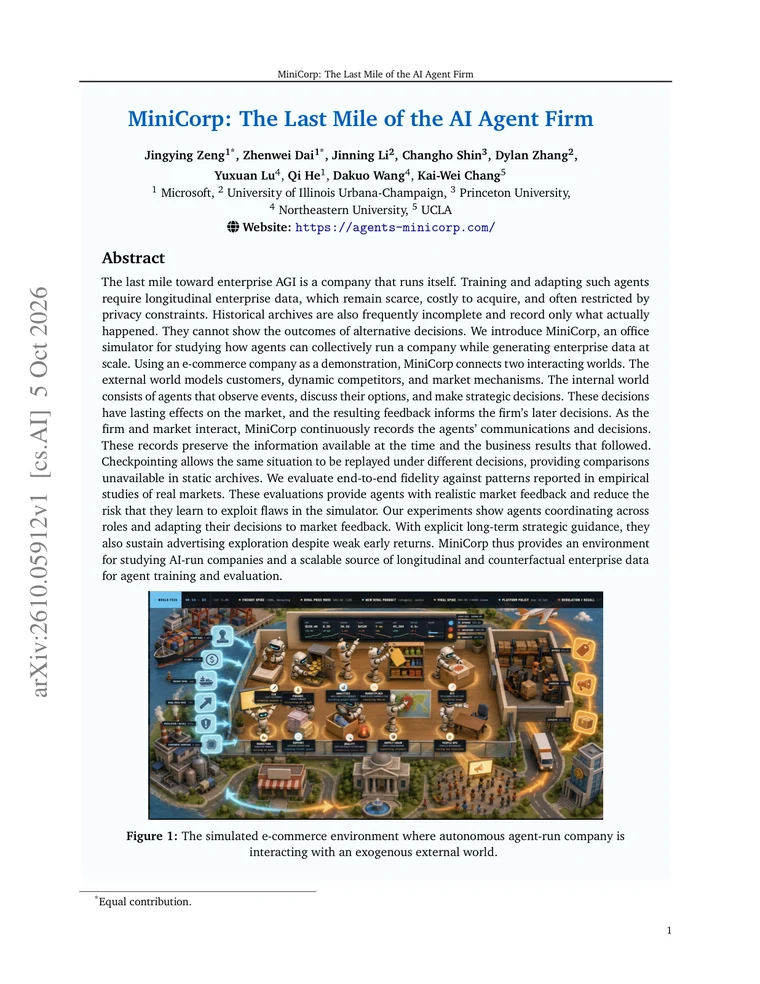
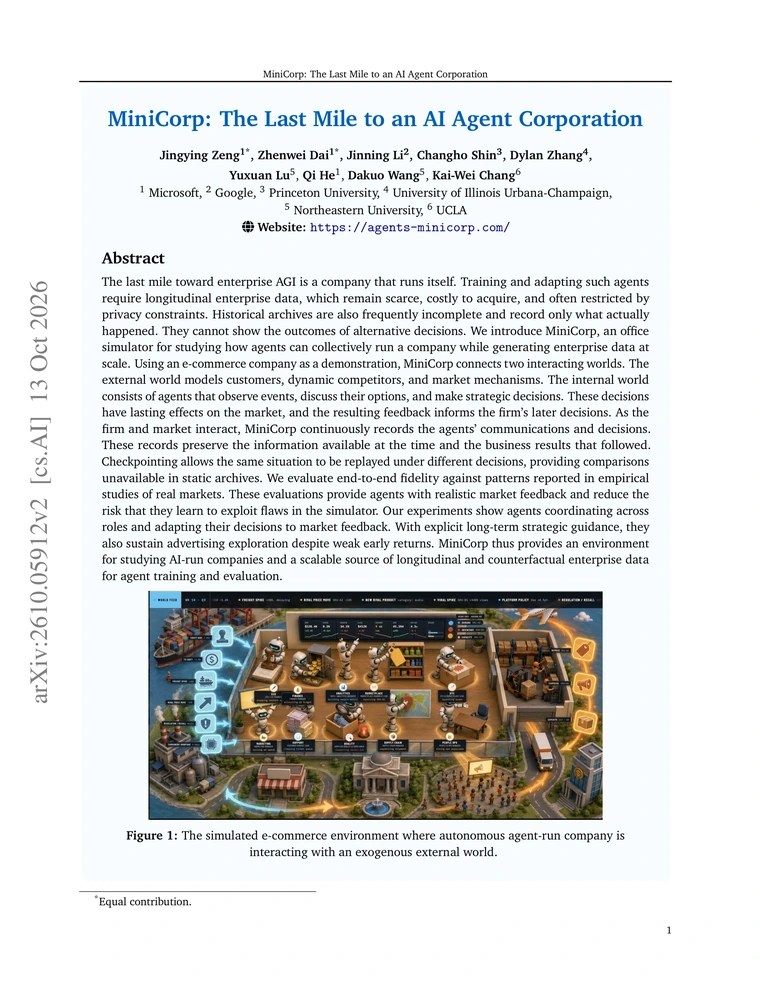
update title

diff --git a/index.html b/index.html
@@ -141,7 +141,7 @@
 
     <div class="lineage">
       <div class="lineage-head">
-      <h3>MiniCorp: The Last Mile of the AI Agent Firm</h3>
+      <h3>MiniCorp: The Last Mile to an AI Agent Corporation</h3>
       <a class="cite" href="https://arxiv.org/pdf/2610.05912" target="_blank" rel="noopener">
         Read full paper
         <svg viewBox="0 0 24 24" fill="none" stroke="currentColor" stroke-width="2"
@@ -154,7 +154,7 @@
       <figure class="lineage-art">
         <a href="https://arxiv.org/pdf/2610.05912" target="_blank" rel="noopener">
           <img src="img/paper-minicorp.webp" width="760" height="984" loading="lazy"
-               alt="First page of MiniCorp: The Last Mile of the AI Agent Firm">
+               alt="First page of MiniCorp: The Last Mile to an AI Agent Corporation">
         </a>
       </figure>
 
@@ -164,7 +164,7 @@
           <button class="copy-btn" type="button" data-copy="#bibtex">Copy</button>
         </div>
         <pre class="citation-code"><code id="bibtex">@article{zeng2026minicorp,
-  title={MiniCorp: The Last Mile of the AI Agent Firm},
+  title={MiniCorp: The Last Mile to an AI Agent Corporation},
   author={Zeng, Jingying and Dai, Zhenwei and Li, Jinning
           and Shin, Changho and Zhang, Dylan and Lu, Yuxuan
           and He, Qi and Wang, Dakuo and Chang, Kai-Wei},

diff --git a/about.html b/about.html
@@ -39,7 +39,7 @@
     <span class="eyebrow">About us</span>
     <h1>We are researching and building office simulators for autonomous companies — the coming Agent Universe</h1>
     <p>
-      MiniCorp: The Last Mile of the AI Agent Firm
+      MiniCorp: The Last Mile to an AI Agent Corporation
     </p>
   </div>
 </section>
